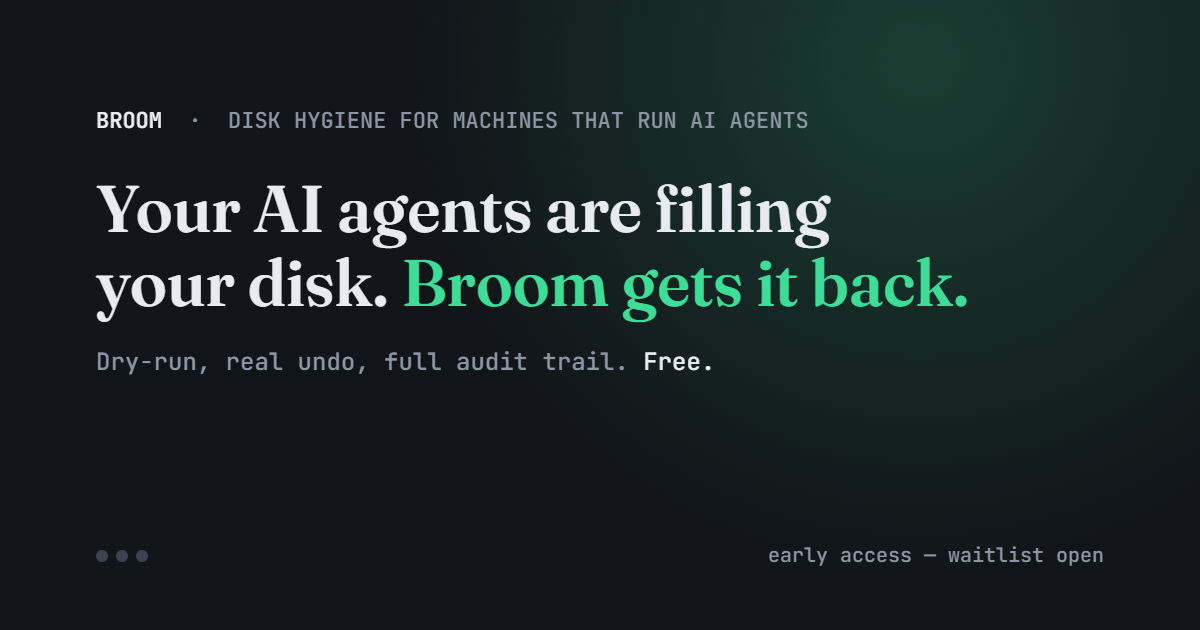
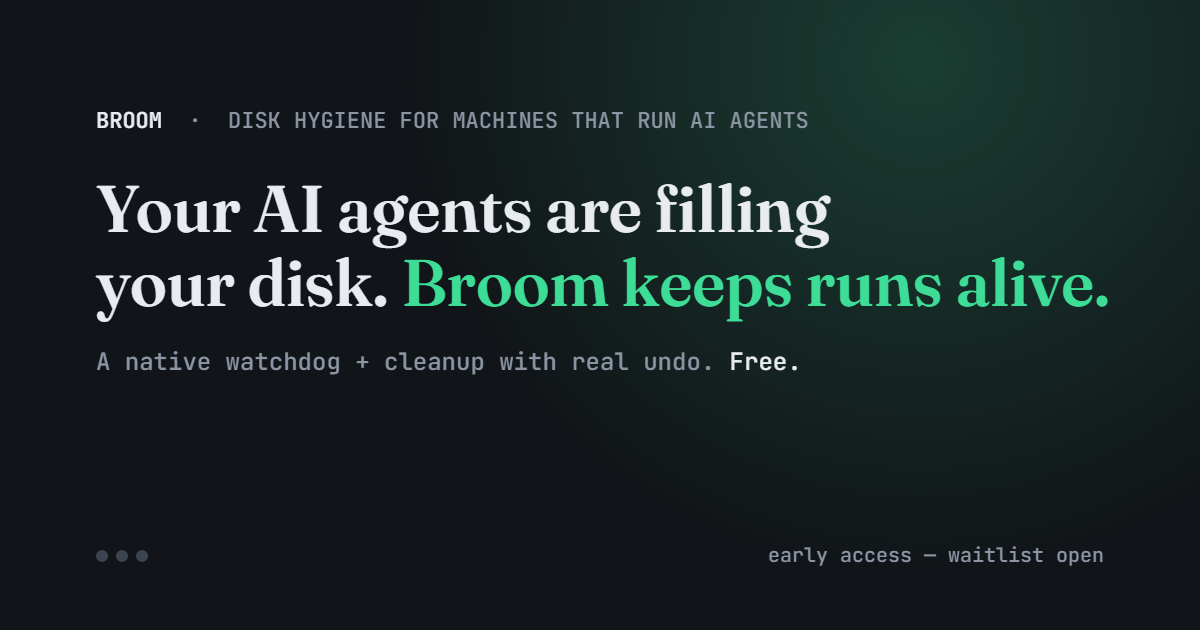
Reposition: watchdog-first messaging, guide section 10 (/tmp/claude-*), new social card

diff --git a/index.html b/index.html
@@ -3,21 +3,21 @@
 <head>
 <meta charset="UTF-8">
 <meta name="viewport" content="width=device-width, initial-scale=1.0">
-<title>Broom — Your AI agents are filling your disk. Get it back.</title>
-<meta name="description" content="Broom finds the gigabytes that Claude Code, Docker, WSL2 and local models bury where Storage Sense can't see, and reclaims them with a dry-run, an undo button and a full audit log. Free for manual cleanup.">
+<title>Broom — The watchdog that keeps your AI agent runs from dying on a full disk</title>
+<meta name="description" content="Agent background tasks have filled disks with up to 1.4 TB of silent output, mid-run and with no warning. Broom watches your disk's growth rate, warns before a run dies, and cleans agent junk with a real undo. Free for manual cleanup.">
 
 <!-- Open Graph / social preview -->
 <meta property="og:type" content="website">
-<meta property="og:title" content="Your AI agents are filling your disk. Broom gets it back.">
-<meta property="og:description" content="Finds and reclaims the disk space that AI dev tools bury, with a dry-run, a real undo and a full audit log. Free for manual cleanup.">
+<meta property="og:title" content="Your AI agents are filling your disk. Broom keeps that from killing your runs.">
+<meta property="og:description" content="A native watchdog that warns before an overnight run dies on a full disk, plus cleanup with a dry-run, a real undo and a full audit log. Free for manual cleanup.">
 <!-- Rutas ABSOLUTAS: X/Twitter y varios scrapers no resuelven og:image relativo -->
 <meta property="og:image" content="https://aurumcapital128-commits.github.io/broom-site/og-card.png">
 <meta property="og:image:width" content="1200">
 <meta property="og:image:height" content="630">
 <meta property="og:url" content="https://aurumcapital128-commits.github.io/broom-site/">
 <meta name="twitter:card" content="summary_large_image">
-<meta name="twitter:title" content="Your AI agents are filling your disk. Broom gets it back.">
-<meta name="twitter:description" content="Finds and reclaims the disk space AI dev tools bury, with a dry-run, an undo and an audit log. Free.">
+<meta name="twitter:title" content="Your AI agents are filling your disk. Broom keeps that from killing your runs.">
+<meta name="twitter:description" content="A native watchdog that warns before a run dies on a full disk, plus cleanup with dry-run, undo and an audit log. Free.">
 <meta name="twitter:image" content="https://aurumcapital128-commits.github.io/broom-site/og-card.png">
 <link rel="canonical" href="https://aurumcapital128-commits.github.io/broom-site/">
 
@@ -330,7 +330,7 @@
   <div class="nav-inner">
     <a href="#" class="logo"><span class="mark">$</span>broom</a>
     <div class="nav-links">
-      <a href="#guarantees">How it works</a>
+      <a href="#watchdog">How it works</a>
       <a href="#pricing">Pricing</a>
       <a href="#faq">FAQ</a>
       <a href="#waitlist" class="nav-cta">Get early access</a>
@@ -341,8 +341,8 @@
 <main>
 <header class="hero wrap">
   <div class="eyebrow-line">For devs running Claude Code, Docker, WSL2, local models, or agents overnight</div>
-  <h1>Your AI agents are filling your disk.<br><span class="accent">Broom gets it back.</span></h1>
-  <p class="sub">Claude Code keeps every transcript, Docker keeps every layer, WSL2 disks never shrink, and Ollama and LM Studio cache the same models twice. Storage Sense can't see any of it. Broom finds it, explains what each thing is, and cleans it with a real undo button.</p>
+  <h1>Your AI agents are filling your disk.<br><span class="accent">Broom keeps that from killing your runs.</span></h1>
+  <p class="sub">Agent background tasks have filled real disks with 278 GB to 1.4 TB of output, silently, mid-run, with no official fix. Broom is a native watchdog: it measures how fast your disk is filling, warns you before an overnight run hits the wall, and cleans the junk with a real undo button.</p>
 
   <div class="hero-ctas">
     <a href="#waitlist" class="btn btn-primary">Get early access →</a>
@@ -368,14 +368,47 @@
       <div class="proof-label">a real WSL2 disk, compacted end to end (<a href="guide-9-places.html#p3">see how</a>)</div>
     </div>
     <div class="proof-pill">
-      <div class="proof-num"><a href="https://github.com/anthropics/claude-code/issues/24207" target="_blank" rel="noopener">#24207</a></div>
-      <div class="proof-label">other developers report 100–300 GB of the same problem</div>
+      <div class="proof-num"><a href="https://github.com/anthropics/claude-code/issues/26911" target="_blank" rel="noopener">537 GB</a></div>
+      <div class="proof-label">from one agent session; six disk-full emergencies in 30 days, publicly reported (<a href="https://github.com/anthropics/claude-code/issues/26911" target="_blank" rel="noopener">#26911</a>)</div>
     </div>
   </div>
 </header>
 
+<section class="wrap" id="watchdog">
+  <div class="eyebrow">The watchdog</div>
+  <h2>A skill can't watch your disk at 3 AM. A native process can.</h2>
+  <p class="lede">Free cleanup scripts and agent skills only run when something invokes them, they burn tokens while they do, and when the disk fills and the agent dies, they die with it. Broom's watchdog is a native process, so it costs zero tokens and it keeps standing when everything else falls over.</p>
+  <div class="steps">
+    <div class="step">
+      <div class="step-icon">
+        <svg width="18" height="18" viewBox="0 0 24 24" fill="none" stroke="currentColor" stroke-width="2" stroke-linecap="round" stroke-linejoin="round"><polyline points="22 12 18 12 15 21 9 3 6 12 2 12"/></svg>
+      </div>
+      <div class="step-n">01 — MEASURE</div>
+      <h3>It watches the rate, not just the number</h3>
+      <p>Free space per volume, and how fast it is dropping. A disk at 40% that is losing 100 GB an hour is an emergency; a disk at 15% that hasn't moved in a week is not.</p>
+    </div>
+    <div class="step">
+      <div class="step-icon">
+        <svg width="18" height="18" viewBox="0 0 24 24" fill="none" stroke="currentColor" stroke-width="2" stroke-linecap="round" stroke-linejoin="round"><path d="M10.29 3.86 1.82 18a2 2 0 0 0 1.71 3h16.94a2 2 0 0 0 1.71-3L13.71 3.86a2 2 0 0 0-3.42 0Z"/><line x1="12" y1="9" x2="12" y2="13"/><line x1="12" y1="17" x2="12.01" y2="17"/></svg>
+      </div>
+      <div class="step-n">02 — WARN EARLY</div>
+      <h3>Before the wall, not after</h3>
+      <p>If the current rate would cross the critical threshold in under two hours, you hear about it while the run can still be saved. The documented failures were silent; this one is not.</p>
+    </div>
+    <div class="step">
+      <div class="step-icon">
+        <svg width="18" height="18" viewBox="0 0 24 24" fill="none" stroke="currentColor" stroke-width="2" stroke-linecap="round" stroke-linejoin="round"><path d="M9 11l3 3L22 4"/><path d="M21 12v7a2 2 0 0 1-2 2H5a2 2 0 0 1-2-2V5a2 2 0 0 1 2-2h11"/></svg>
+      </div>
+      <div class="step-n">03 — KEEP SCORE</div>
+      <h3>Every warning is counted</h3>
+      <p>Warnings are logged and persist across runs, so after a month you can see exactly what the watchdog caught. It observes and warns by default; it never cleans anything without you.</p>
+    </div>
+  </div>
+  <p class="next-cta"><a href="#waitlist">→ Get early access</a></p>
+</section>
+
 <section class="wrap" id="guarantees">
-  <div class="eyebrow">How it works</div>
+  <div class="eyebrow">The cleanup, when you ask for it</div>
   <h2>You review the plan before anything gets deleted</h2>
   <div class="steps">
     <div class="step">
@@ -483,9 +516,10 @@
 
 <section class="wrap" id="hiding">
   <div class="eyebrow">The free guide</div>
-  <h2>9 places your agents hide gigabytes</h2>
-  <p class="lede">The exact paths and the official cleanup commands, with no purchase and no email required. Here are two of the nine:</p>
+  <h2>10 places your agents hide gigabytes</h2>
+  <p class="lede">The exact paths and the official cleanup commands, with no purchase and no email required. Here are three of the ten:</p>
   <div class="hiding">
+    <div class="hide-row"><code>/tmp/claude-*</code><span>Background-task output with <b>no size cap and no cleanup</b>. Public reports range from 278 GB to 1.4 TB, silently, mid-run.</span></div>
     <div class="hide-row"><code>ext4.vhdx</code><span>WSL2 and Docker virtual disks grow forever and <b>never shrink on their own</b>. Deleting files inside doesn't return the space to Windows.</span></div>
     <div class="hide-row"><code>~/.ollama · ~/.cache/huggingface</code><span>Different tools store the same model two or three times. 8 GB per duplicate is normal.</span></div>
   </div>

diff --git a/guide-9-places.html b/guide-9-places.html
@@ -3,11 +3,11 @@
 <head>
 <meta charset="UTF-8">
 <meta name="viewport" content="width=device-width, initial-scale=1.0">
-<title>The 9 places Claude Code, Docker &amp; WSL2 hide your gigabytes — Broom</title>
+<title>The 10 places Claude Code, Docker &amp; WSL2 hide your gigabytes — Broom</title>
 <meta name="description" content="A field guide with the exact paths where AI coding agents, Docker, WSL2 and local models bury disk space, and the safe way to clean each one by hand. Nothing to buy.">
 
 <meta property="og:type" content="article">
-<meta property="og:title" content="The 9 places Claude Code, Docker & WSL2 hide your gigabytes">
+<meta property="og:title" content="The 10 places Claude Code, Docker & WSL2 hide your gigabytes">
 <meta property="og:description" content="The real paths and the official cleanup commands, with nothing to buy. A free field guide from Broom.">
 <!-- Rutas ABSOLUTAS: X/Twitter y varios scrapers no resuelven og:image relativo -->
 <meta property="og:image" content="https://aurumcapital128-commits.github.io/broom-site/og-card.png">
@@ -15,7 +15,7 @@
 <meta property="og:image:height" content="630">
 <meta property="og:url" content="https://aurumcapital128-commits.github.io/broom-site/guide-9-places.html">
 <meta name="twitter:card" content="summary_large_image">
-<meta name="twitter:title" content="The 9 places Claude Code, Docker & WSL2 hide your gigabytes">
+<meta name="twitter:title" content="The 10 places Claude Code, Docker & WSL2 hide your gigabytes">
 <meta name="twitter:image" content="https://aurumcapital128-commits.github.io/broom-site/og-card.png">
 <link rel="canonical" href="https://aurumcapital128-commits.github.io/broom-site/guide-9-places.html">
 
@@ -109,7 +109,7 @@
 
 <header class="wrap">
   <div class="brand"><a href="index.html" style="color:inherit"><b>broom</b></a> · disk hygiene for machines that run AI agents · <a href="index.html">← back to broom</a></div>
-  <h1>The 9 places Claude Code, Docker &amp; WSL2 <span class="accent">hide your gigabytes</span></h1>
+  <h1>The 10 places Claude Code, Docker &amp; WSL2 <span class="accent">hide your gigabytes</span></h1>
   <p class="standfirst">Every path in this guide is real, every cleanup command is the official one, and everything here can be done by hand for free. <b>You don't need to buy anything to use this guide.</b> Broom just automates the same work, with seatbelts.</p>
 
   <nav class="toc" aria-label="Contents">
@@ -121,7 +121,8 @@
     <a href="#p6"><span class="n">6</span>Package manager caches (npm, pip, yarn)</a><br>
     <a href="#p7"><span class="n">7</span>Ollama models</a><br>
     <a href="#p8"><span class="n">8</span>HuggingFace hub cache</a><br>
-    <a href="#p9"><span class="n">9</span>LM Studio models &amp; desktop-agent VMs</a>
+    <a href="#p9"><span class="n">9</span>LM Studio models &amp; desktop-agent VMs</a><br>
+    <a href="#p10"><span class="n">10</span>/tmp/claude-* — the silent disk killer</a>
   </nav>
 </header>
 
@@ -247,9 +248,28 @@ Get-ChildItem "$env:LOCALAPPDATA\Packages" -Recurse -Filter *.vhdx -ErrorAction 
   <div class="warn"><b>IN LM STUDIO, SKIP:</b> credentials/, conversations/ and config folders — only <span style="font-family:var(--mono)">models/</span> holds the gigabytes, and only models are safe to remove.</div>
 </section>
 
+<section class="wrap" id="p10">
+  <div class="n-big">10</div>
+  <h2><code>/tmp/claude-*</code> — the silent disk killer</h2>
+  <p class="why">Claude Code writes background-task output under the system temp dir (<span style="font-family:var(--mono)">/private/tmp/claude-&lt;uid&gt;/&lt;session&gt;/tasks/*.output</span> on macOS/Linux, <span style="font-family:var(--mono)">%TEMP%\claude\</span> on Windows) with <b>no size cap, no expiry and no cleanup</b>. Public reports: <a href="https://github.com/anthropics/claude-code/issues/41737" target="_blank" rel="noopener">278 GB in minutes</a>, <a href="https://github.com/anthropics/claude-code/issues/26911" target="_blank" rel="noopener">537 GB from one session with six disk-full emergencies in 30 days</a>, and <a href="https://github.com/anthropics/claude-code/issues/35121" target="_blank" rel="noopener">a single file that reached 1.4 TB</a>. The failure is silent: no warnings, no errors, and on macOS these files survive reboots.</p>
+  <div class="label">Check the damage</div>
+  <pre><span class="c"># macOS / Linux</span>
+du -sh /tmp/claude-* /private/tmp/claude-* 2>/dev/null
+
+<span class="c"># Windows (PowerShell)</span>
+"{0:N1} GB" -f ((Get-ChildItem $env:TEMP\claude* -Recurse -File -ErrorAction SilentlyContinue | Measure-Object Length -Sum).Sum/1GB)</pre>
+  <div class="label">Clean it safely (by hand)</div>
+  <pre><span class="c"># Only sessions that are OVER. List first, look at the dates:</span>
+ls -lt /tmp/claude-*/
+<span class="c"># Then delete session folders older than a couple of days:</span>
+rm -rf /tmp/claude-&lt;uid&gt;/&lt;old-session-id&gt;</pre>
+  <div class="warn"><b>CAREFUL:</b> an <span style="font-family:var(--mono)">.output</span> file that belongs to a RUNNING task is exactly the file you must not touch. If an agent session is active, leave its folder alone. To stop the bleeding entirely you can set <span style="font-family:var(--mono)">CLAUDE_CODE_DISABLE_BACKGROUND_TASKS=1</span>, at the cost of losing background tasks.</div>
+  <div class="mini-cta"><b>Broom covers this from both ends:</b> it detects dead agent sessions in temp automatically, and its watchdog measures how fast your disk is filling so a runaway task warns you before the run dies. <a href="index.html#waitlist">→ Get early access, free</a></div>
+</section>
+
 <section class="wrap">
   <div class="cta">
-    <h2>Or let Broom do all nine, with seatbelts</h2>
+    <h2>Or let Broom do all ten, with seatbelts</h2>
     <p style="margin-top:12px">Everything above, automated: deterministic detection, a dry-run by default, deletions that go to a restorable trash with 7-day undo, and an audit log of every byte. If your machine is clean, Broom says so and asks you for nothing.</p>
     <p style="margin-top:14px"><a href="index.html#waitlist">→ Join the waitlist</a></p>
   </div>
